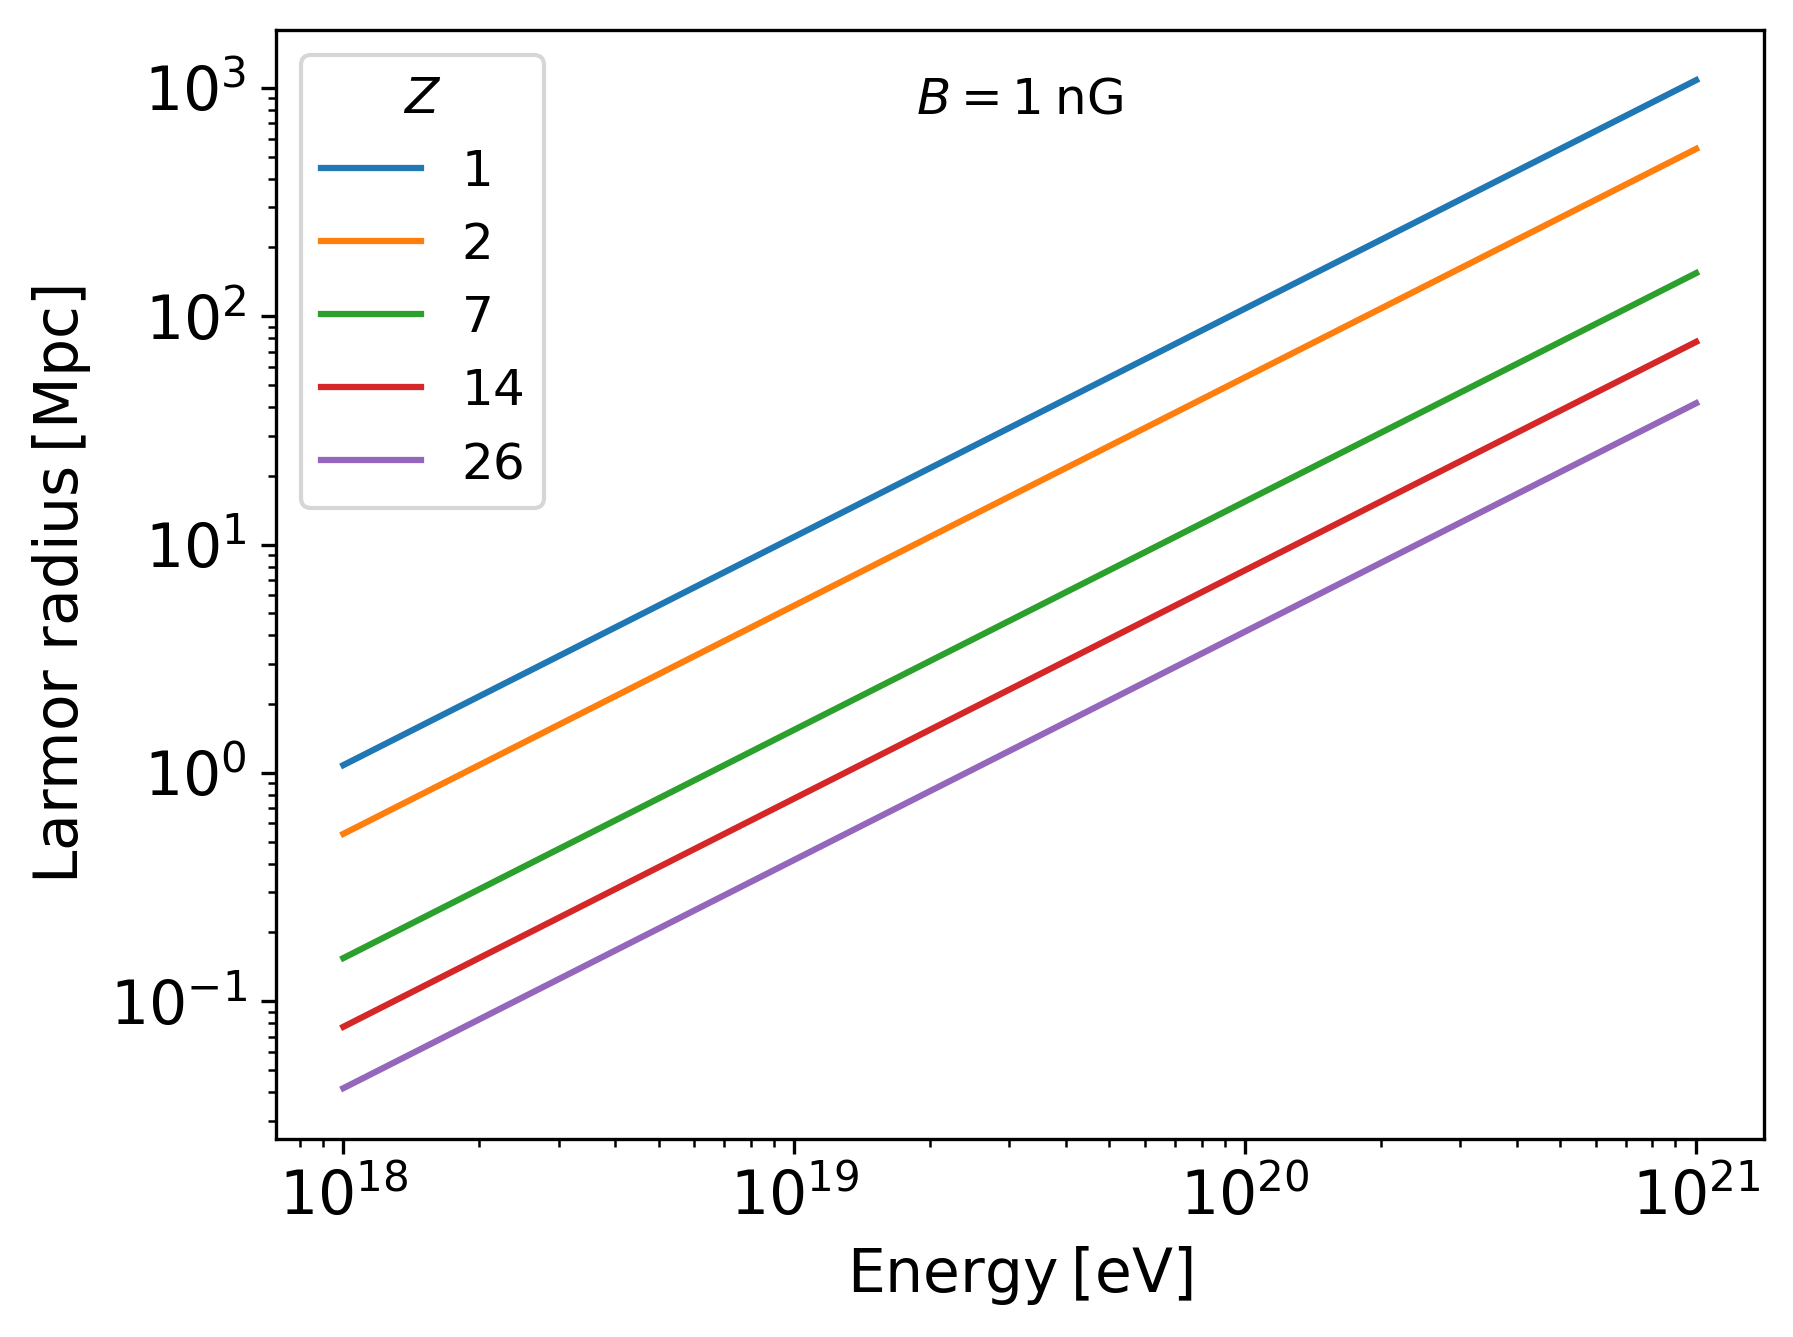
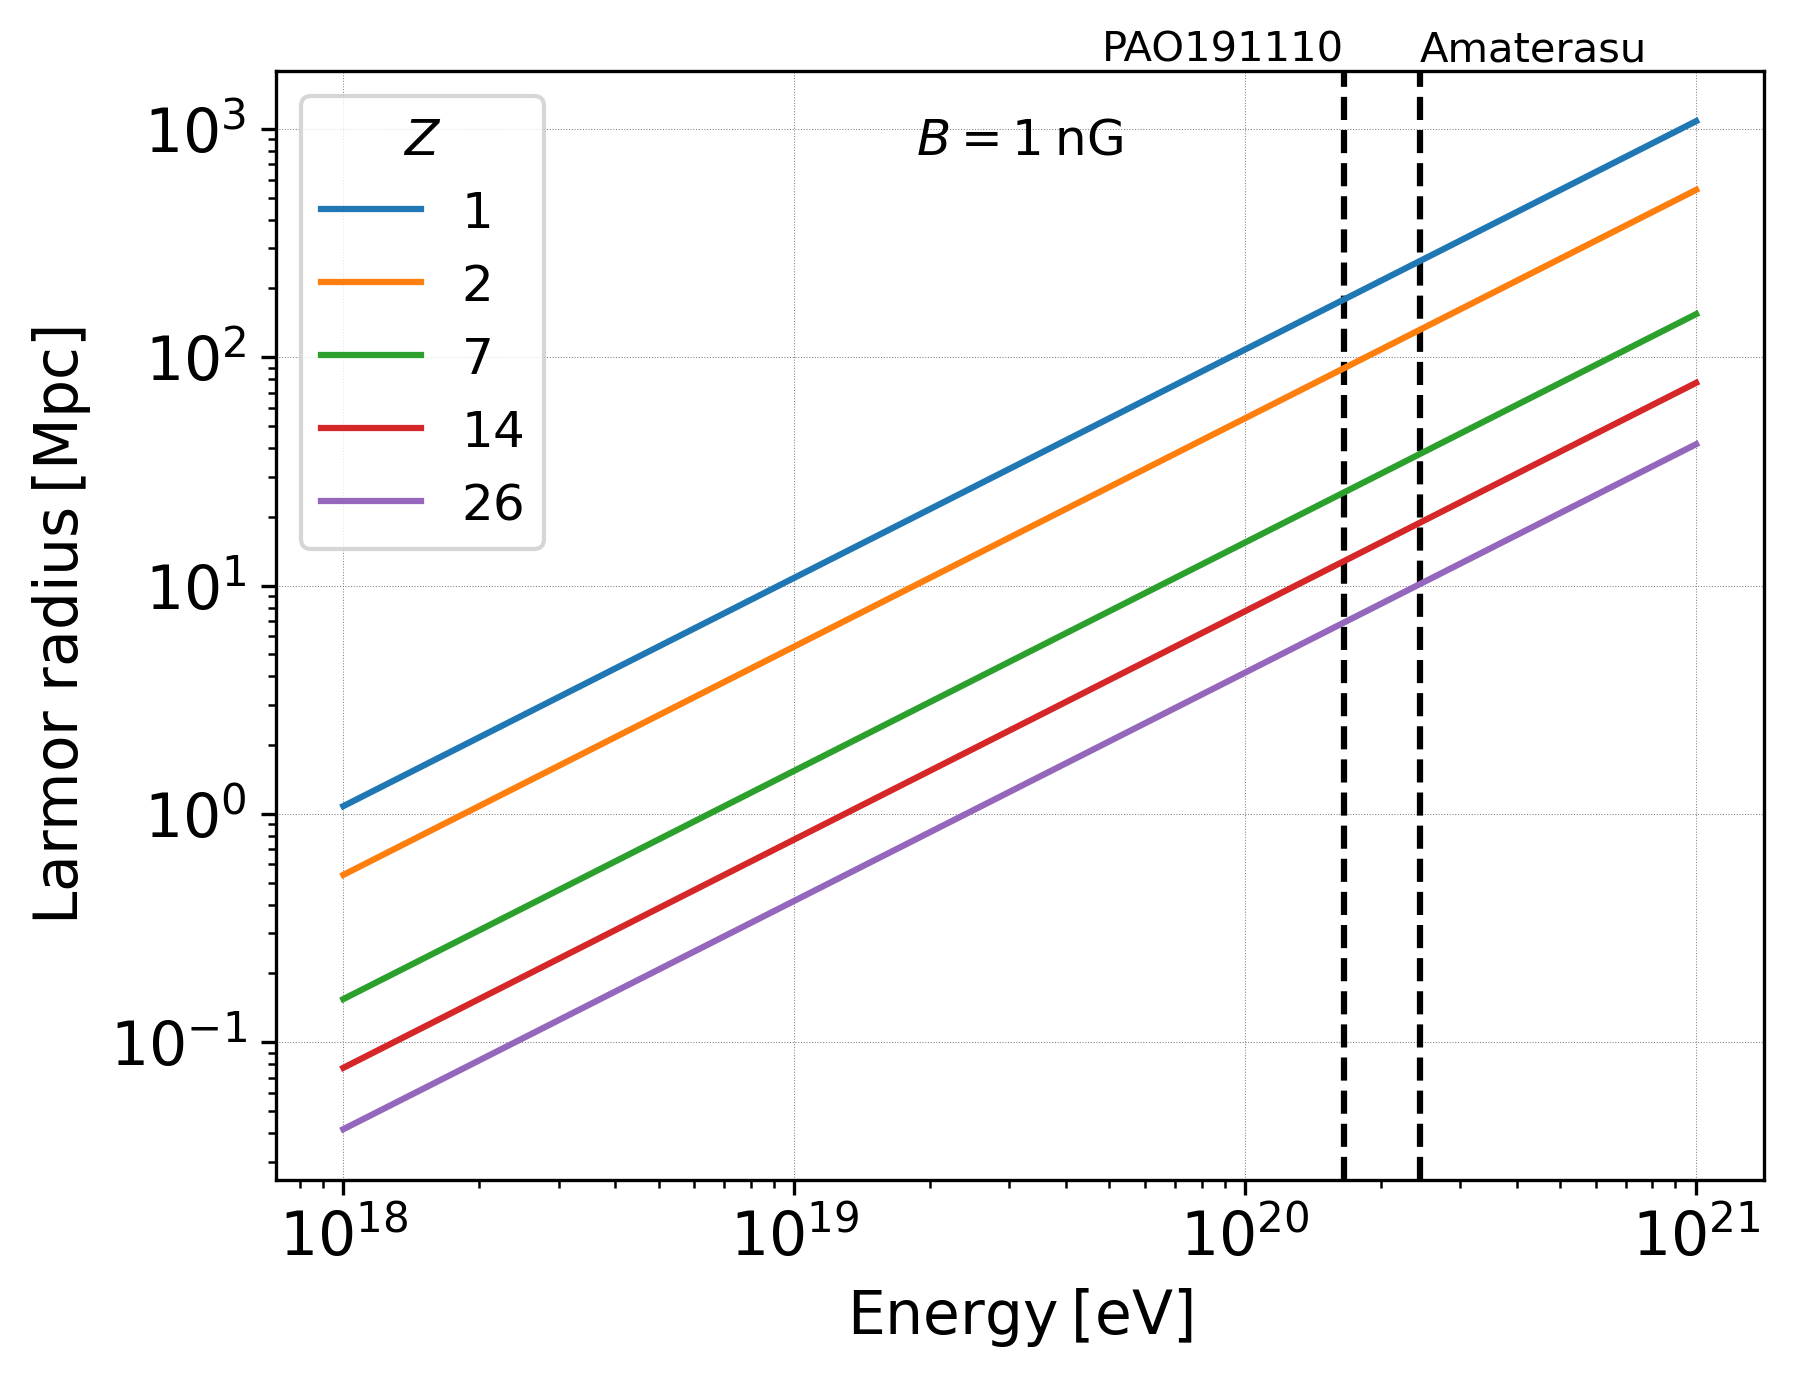
Updated Larmor radius plot to include additional features

diff --git a/random/plot_larmor_radius.py b/random/plot_larmor_radius.py
@@ -12,9 +12,8 @@ plt.rcParams.update({'legend.fontsize': 'large',
 ZS = [1, 2, 7, 14, 26]
 
 # ----------------------------------------------------------------------------------------------------
-def larmor_radius(E, Z):
+def larmor_radius(E, Z, B):
 
-    B = 1. # nG 
     return 1.081 / Z * E / B # Mpc 
 
 # ----------------------------------------------------------------------------------------------------
@@ -22,17 +21,24 @@ def plot_larmor_radius():
 
     E = np.logspace(0, 3, num = 100)
 
-    for Z in ZS:
-        plt.plot(E * 1.e18, larmor_radius(E, Z), label = f'${Z}$')
-
     at = AnchoredText(r'$B = 1 \: \rm nG$', loc = 'upper center', frameon = False, prop = {'fontsize': 'large'})
     plt.gca().add_artist(at)
+    
+    plt.axvline(x = 166e18, color = 'black', linestyle = '--')
+    plt.axvline(x = 244e18, color = 'black', linestyle = '--')
+
+    plt.text(166e18, 2.e3, 'PAO191110', color = 'black', horizontalalignment = 'right', fontsize = 'medium')
+    plt.text(244e18, 2.e3, 'Amaterasu', color = 'black', horizontalalignment = 'left', fontsize = 'medium')
+
+    for Z in ZS:
+        plt.plot(E * 1.e18, larmor_radius(E, Z, B = 1.), label = f'${Z}$')
 
     plt.xscale('log')
     plt.yscale('log')
     plt.xlabel(r'Energy$\: \rm [eV]$')
     plt.ylabel(r'Larmor radius$\: \rm [Mpc]$')
     plt.legend(title = r'$Z$')
+    plt.grid(linestyle = ':', color = 'gray', linewidth = 0.25, zorder = -1.0)
     plt.savefig(f"larmor_radius.pdf", bbox_inches = 'tight')
     plt.savefig(f"larmor_radius.png", bbox_inches = 'tight', dpi = 300)
     plt.show()
